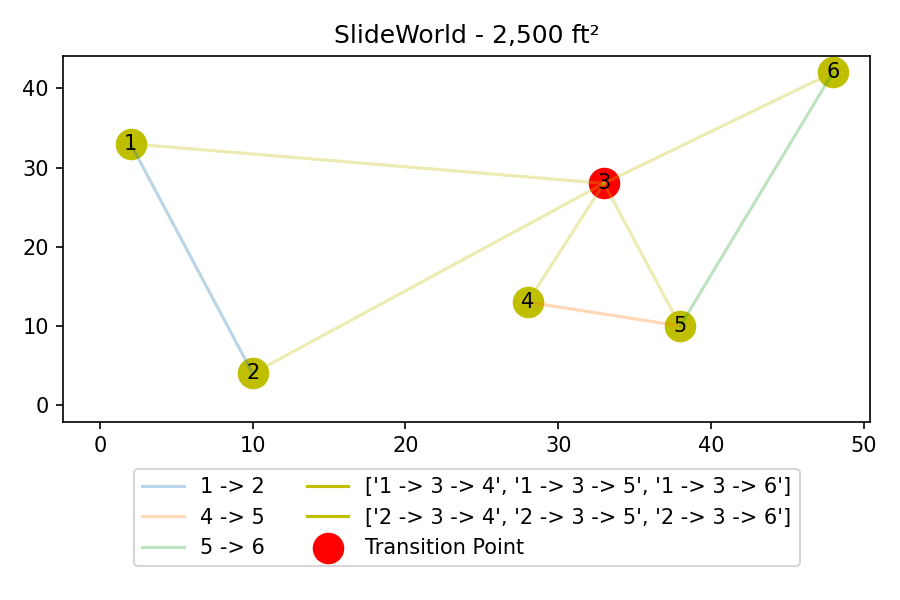
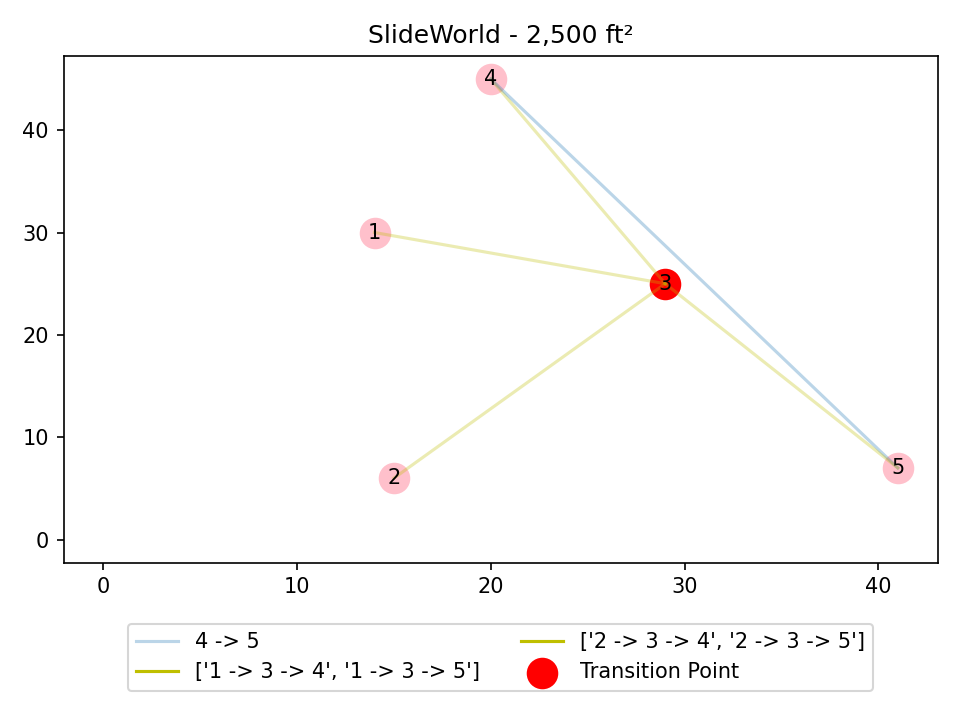
hw5

diff --git a/Homework5/hw5_exercise1.py b/Homework5/hw5_exercise1.py
@@ -63,8 +63,8 @@ class SlideWorld():
         self.maxSlides = 9
         self.maxFeet = 100
         self.transitionSlide = None
-        self.slideColor = 'y'
-        self.transitionSlideColor = 'r'
+        self.slideColor = 'pink'
+        self.transitionSlideColor = 'red'
         self.transitionLineColor = 'y'
         self.directSlides = []
     
